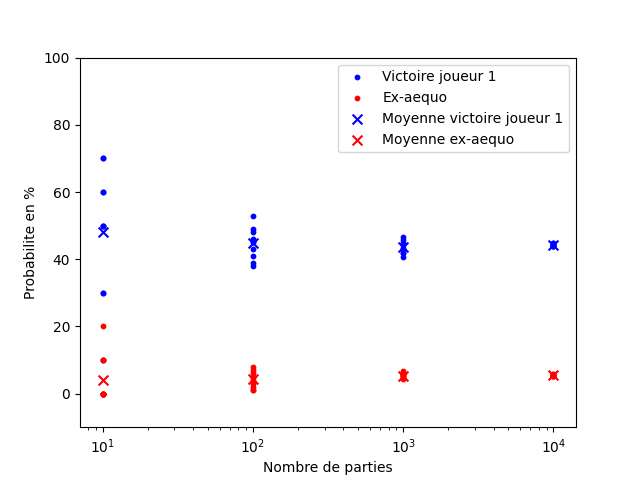
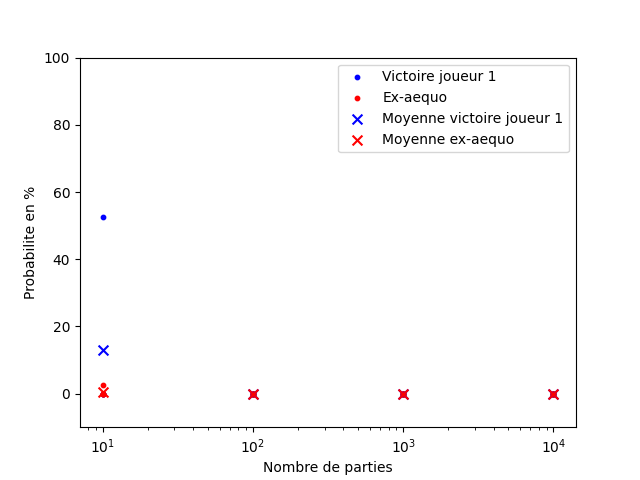
bruh it took 11h to exec once I split it on multiple cores to make it faster lol

diff --git a/proba/devoir3/montecarlo.py b/proba/devoir3/montecarlo.py
@@ -2,64 +2,83 @@ import numpy as np
 import matplotlib.pyplot as plt
 import connect4
 import time
+from multiprocessing import Pool
 
-t = time.time()
 
-N = 10 # Nb repetitions
-nb_games = [10, 100, 1000, 10000]
-# Array with the percentage of success for player 1 for [10, 100, 1000, 10000] games, N times each
-win1 = np.zeros((N, len(nb_games)))
-# Array with the percentage of draws for player 1 for [10, 100, 1000, 10000] games, N times each
-draw = np.zeros((N, len(nb_games)))
-
-##################################
-### START : To do for students ###
-##################################
-
-# To do : fill in arrays win1 and draw
-# In order to do so, simulate games with the function connect4.run_game() 
-for i in range(N): # N repetitions
-    for j in range(len(nb_games)): # 10, 100, 1000, 10000 games
+def run(N, nb_games,win1,draw):
+    for i in range(N):
         player1_wins = 0
         draws = 0
-        nbr = nb_games[j]
-        for game in range(nbr):
+        for j in range(nb_games[-1]):
+            print(f"N = {i}/ j = {j}")
             result = connect4.run_game()
             if result == 1:
                 player1_wins += 1
             elif result == 0:
                 draws += 1
-        win1[i][j] =  player1_wins / nbr
-        draw[i][j] =  draws / nbr
-win1 *= 100
-draw *= 100
-print(win1)
-################################
-### END : To do for students ###
-################################
+            if j+1 in nb_games:
+                try:
+                    win1[i][nb_games.index(j+1)] =  player1_wins / (j+1)
+                    draw[i][nb_games.index(j+1)] =  draws / (j+1)
+                except:
+                    print(win1, j+1)
+    return win1, draw
 
-# Computes and prints de mean for each [10, 100, 1000, 10000]
-win1_mean = np.mean(win1, axis=0)
-draw_mean = np.mean(draw, axis=0)
-print(win1_mean)
-print(draw_mean)
+if __name__ == '__main__':
+    t = time.time()
+    N = 8 # Nb repetitions
+    nb_games = [10, 100, 1000, 10000]
+    # Array with the percentage of success for player 1 for [10, 100, 1000, 10000] games, N times each
+    win1 = np.zeros((N, len(nb_games)))
+    # Array with the percentage of draws for player 1 for [10, 100, 1000, 10000] games, N times each
+    draw = np.zeros((N, len(nb_games)))
 
-# Plot the results in the required format.
-# Please do not modify
-plt.figure()
-for i in range(len(nb_games)):
-    plt.scatter(np.full(N, nb_games[i]), win1[:,i], c = 'blue', s = 10)
-    plt.scatter(np.full(N, nb_games[i]), draw[:,i], c = 'red', s = 10)
-    plt.scatter(nb_games[i], win1_mean[i], c = 'blue', marker = 'x', s = 50)
-    plt.scatter(nb_games[i], draw_mean[i], c = 'red', marker = 'x', s = 50)
-plt.legend(['Victoire joueur 1', 'Ex-aequo', 'Moyenne victoire joueur 1', 'Moyenne ex-aequo'])
-plt.xlabel('Nombre de parties')
-plt.ylabel('Probabilite en %')
-plt.xscale("log")
-plt.ylim((-10,100))
-# plt.show()
+    ##################################
+    ### START : To do for students ###
+    ##################################
 
-elapsed = time.time() - t
-print(f'Elapsed time [s]: {elapsed} \nElapsed time [min]: {elapsed/60}')
+    # To do : fill in arrays win1 and draw
+    # In order to do so, simulate games with the function connect4.run_game() 
+    with Pool(4) as p:
+        result1 = p.apply_async(run, (2, nb_games, win1, draw))
+        result2 = p.apply_async(run, (2, nb_games, win1, draw))
+        result3 = p.apply_async(run, (2, nb_games, win1, draw))
+        result4 = p.apply_async(run, (2, nb_games, win1, draw))
+        answer1 = result1.get(timeout=100)
+        answer2 = result2.get(timeout=100)
+        answer3 = result3.get(timeout=100)
+        answer4 = result4.get(timeout=100)
+    win1 = (answer1[0] + answer2[0] + answer3[0] + answer4[0])/4
+    draw = (answer1[1] + answer2[1] + answer3[1] + answer4[1])/4
+    win1 *= 100
+    draw *= 100
+    print(win1)
+    ################################
+    ### END : To do for students ###
+    ################################
 
-#plt.savefig('MCplot.png', format='png')
+    # Computes and prints de mean for each [10, 100, 1000, 10000]
+    win1_mean = np.mean(win1, axis=0)
+    draw_mean = np.mean(draw, axis=0)
+    print(win1_mean)
+    print(draw_mean)
+
+    # Plot the results in the required format.
+    # Please do not modify
+    plt.figure()
+    for i in range(len(nb_games)):
+        plt.scatter(np.full(N, nb_games[i]), win1[:,i], c = 'blue', s = 10)
+        plt.scatter(np.full(N, nb_games[i]), draw[:,i], c = 'red', s = 10)
+        plt.scatter(nb_games[i], win1_mean[i], c = 'blue', marker = 'x', s = 50)
+        plt.scatter(nb_games[i], draw_mean[i], c = 'red', marker = 'x', s = 50)
+    plt.legend(['Victoire joueur 1', 'Ex-aequo', 'Moyenne victoire joueur 1', 'Moyenne ex-aequo'])
+    plt.xlabel('Nombre de parties')
+    plt.ylabel('Probabilite en %')
+    plt.xscale("log")
+    plt.ylim((-10,100))
+    # plt.show()
+
+    elapsed = time.time() - t
+    print(f'Elapsed time [s]: {elapsed} \nElapsed time [min]: {elapsed/60}')
+
+    plt.savefig('MCplot.png', format='png')

diff --git a/proba/devoir3/ai_student.py b/proba/devoir3/ai_student.py
@@ -7,14 +7,10 @@ def ai_student(board, player):
     tst = np.copy(brd)
     for x in range(mvs):
       mv1 = connect4.ai_random(tst, 1)
-      if brd[0][mv1] != 0:
-            print('ERROR: The chosen column is already full.')
       tst = connect4.update_board(tst, mv1, 1)
       if connect4.check_win(tst, mv1, 1):
             return 1
       mv2 = connect4.ai_random(tst, 2)
-      if brd[0][mv2] != 0:
-            print('ERROR: The chosen column is already full.')
       tst = connect4.update_board(tst, mv2, 2)
       if connect4.check_win(tst, mv2, 2):
             return 2
@@ -44,7 +40,7 @@ def ai_student(board, player):
   if cpBoard[5][3] == 0 or cpBoard[4][3] == 0:
     return 3
   noAvailibleSpots = np.count_nonzero(cpBoard == 0) - 1
-  x = 100 if noAvailibleSpots // 2 > 5 else 1000 #:D (we can change this value to make the AI better or worse)
+  x = 10  #:D (we can change this value to make the AI better or worse)
   nbrWins = np.zeros(len(possibleColumns))
   for column in range(len(possibleColumns)):
     nxtBoard = np.copy(connect4.update_board(cpBoard, possibleColumns[column], player))
